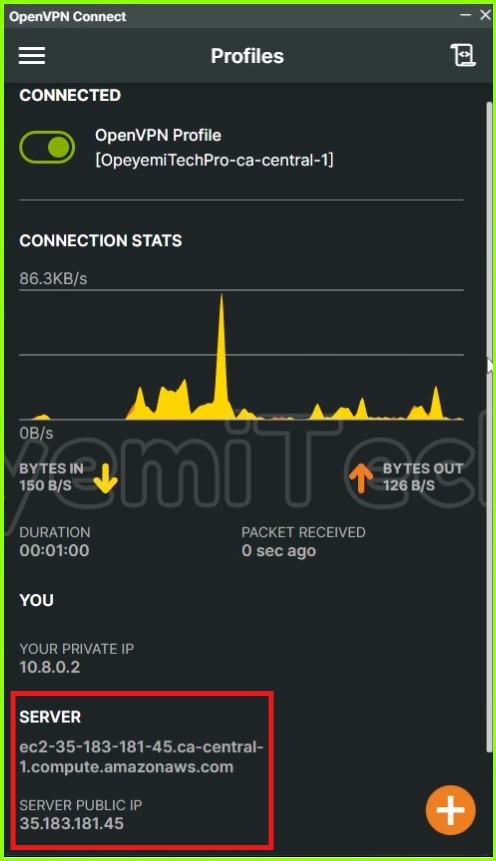
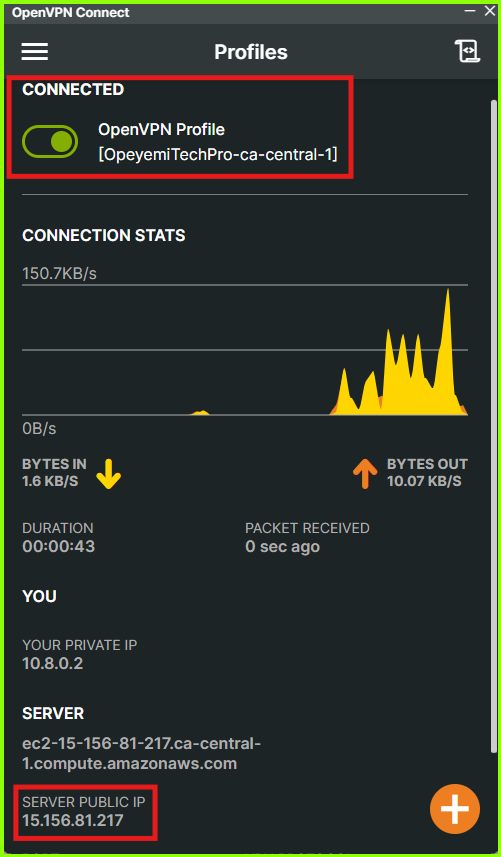
Deployed 822b43e with MkDocs version: 1.6.1

diff --git a/terraform_projects/openvpn_access_server/index.html b/terraform_projects/openvpn_access_server/index.html
@@ -1795,6 +1795,8 @@
 <li>Further steps to launch your VPN connection</li>
 </ul>
 <p><a class="glightbox" data-type="image" data-width="100%" data-height="auto" data-title="Terraform Output" data-desc-position="bottom"><img alt="Terraform Output" src="../../assets/images/ovpn-terraform-output.png" title="Terraform Output Screen" /></a></p>
+<p><strong>Showing the OpenVPN server on the AWS EC2 Console</strong>
+<a class="glightbox" data-type="image" data-width="100%" data-height="auto" data-title="AWS Console Showing the OpenVPN Server details" data-desc-position="bottom"><img alt="AWS Console Showing the OpenVPN Server details" src="../../assets/images/ovpn-terraform-console.png" title="AWS Console Showing the OpenVPN Server details" /></a></p>
 <h2 id="connect-to-your-vpn">Connect to your VPN<a class="headerlink" href="#connect-to-your-vpn" title="Copy this link to reference this section">&para;</a></h2>
 <ul>
 <li>Download and install <a href="https://openvpn.net/client/">OpenVPN Connect client</a> on your local machine</li>
@@ -1840,7 +1842,7 @@
     <span class="md-icon" title="Last update">
       <svg xmlns="http://www.w3.org/2000/svg" viewBox="0 0 24 24"><path d="M21 13.1c-.1 0-.3.1-.4.2l-1 1 2.1 2.1 1-1c.2-.2.2-.6 0-.8l-1.3-1.3c-.1-.1-.2-.2-.4-.2m-1.9 1.8-6.1 6V23h2.1l6.1-6.1zM12.5 7v5.2l4 2.4-1 1L11 13V7zM11 21.9c-5.1-.5-9-4.8-9-9.9C2 6.5 6.5 2 12 2c5.3 0 9.6 4.1 10 9.3-.3-.1-.6-.2-1-.2s-.7.1-1 .2C19.6 7.2 16.2 4 12 4c-4.4 0-8 3.6-8 8 0 4.1 3.1 7.5 7.1 7.9l-.1.2z"/></svg>
     </span>
-    <span class="git-revision-date-localized-plugin git-revision-date-localized-plugin-timeago"><span class="timeago" datetime="2024-11-26T14:17:04+00:00" locale="en"></span></span><span class="git-revision-date-localized-plugin git-revision-date-localized-plugin-iso_date">2024-11-26</span>
+    <span class="git-revision-date-localized-plugin git-revision-date-localized-plugin-timeago"><span class="timeago" datetime="2024-11-26T15:03:20+00:00" locale="en"></span></span><span class="git-revision-date-localized-plugin git-revision-date-localized-plugin-iso_date">2024-11-26</span>
   </span>
 
     
